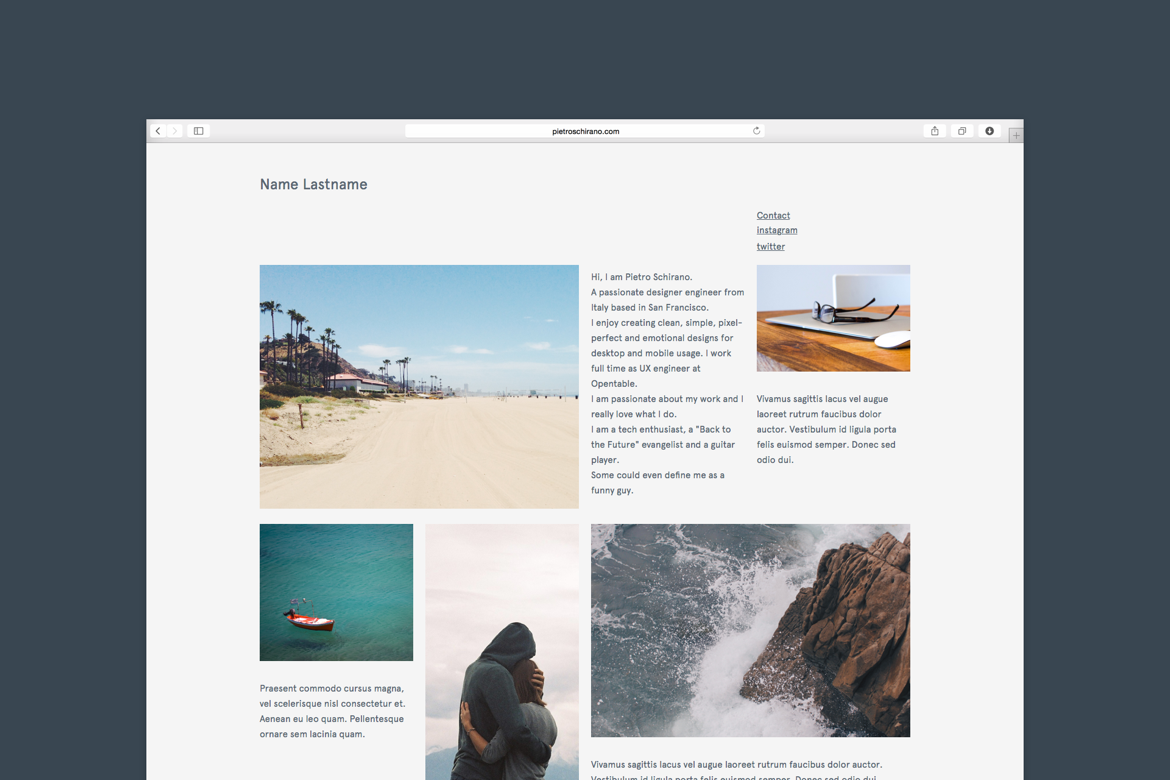
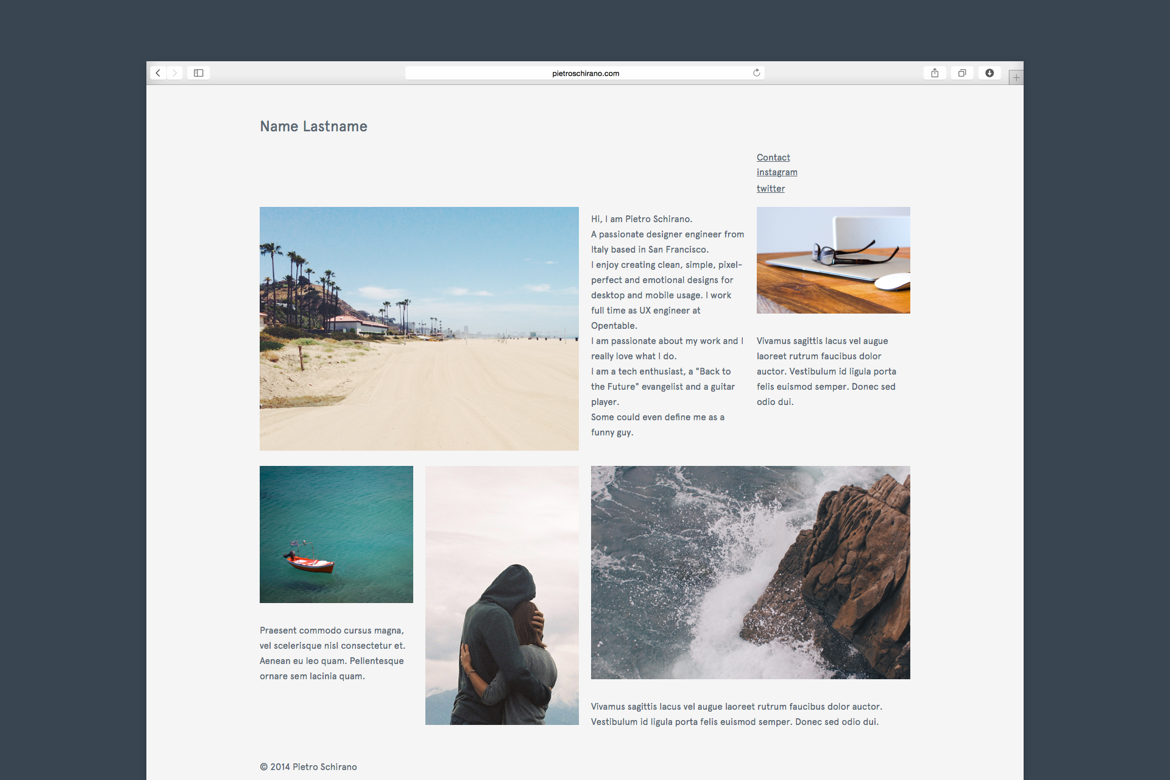
added more work

diff --git a/minimal/work.html b/minimal/work.html
@@ -67,6 +67,25 @@
     </div>
 </div>
 
+<div class="third-line">
+    <div class="line cf">
+        <div class="special size4of8">
+            <img class="work" src="img/7.png" alt="">
+            
+        </div>
+        <div class="special size2of8">
+            <img class="work" src="img/8.png" alt="">
+            <img class="work extra" src="img/8b.png" alt="">
+        </div>
+        <div class="special size2of8">
+            <img class="work" src="img/9.png" alt="">
+        </div>
+
+    </div>
+</div>
+
+
+
  <div class="push"></div>
 
 </div>

diff --git a/minimal/style.css b/minimal/style.css
@@ -220,9 +220,14 @@ ul {
 	margin-top: 9.0625em;
 }
 
-.second-line, .extra {
+.second-line, .third-line {
 
 	margin-top: 2em;
+}
+
+.extra {
+
+	margin-top: 1.641em;
 }
 
 
